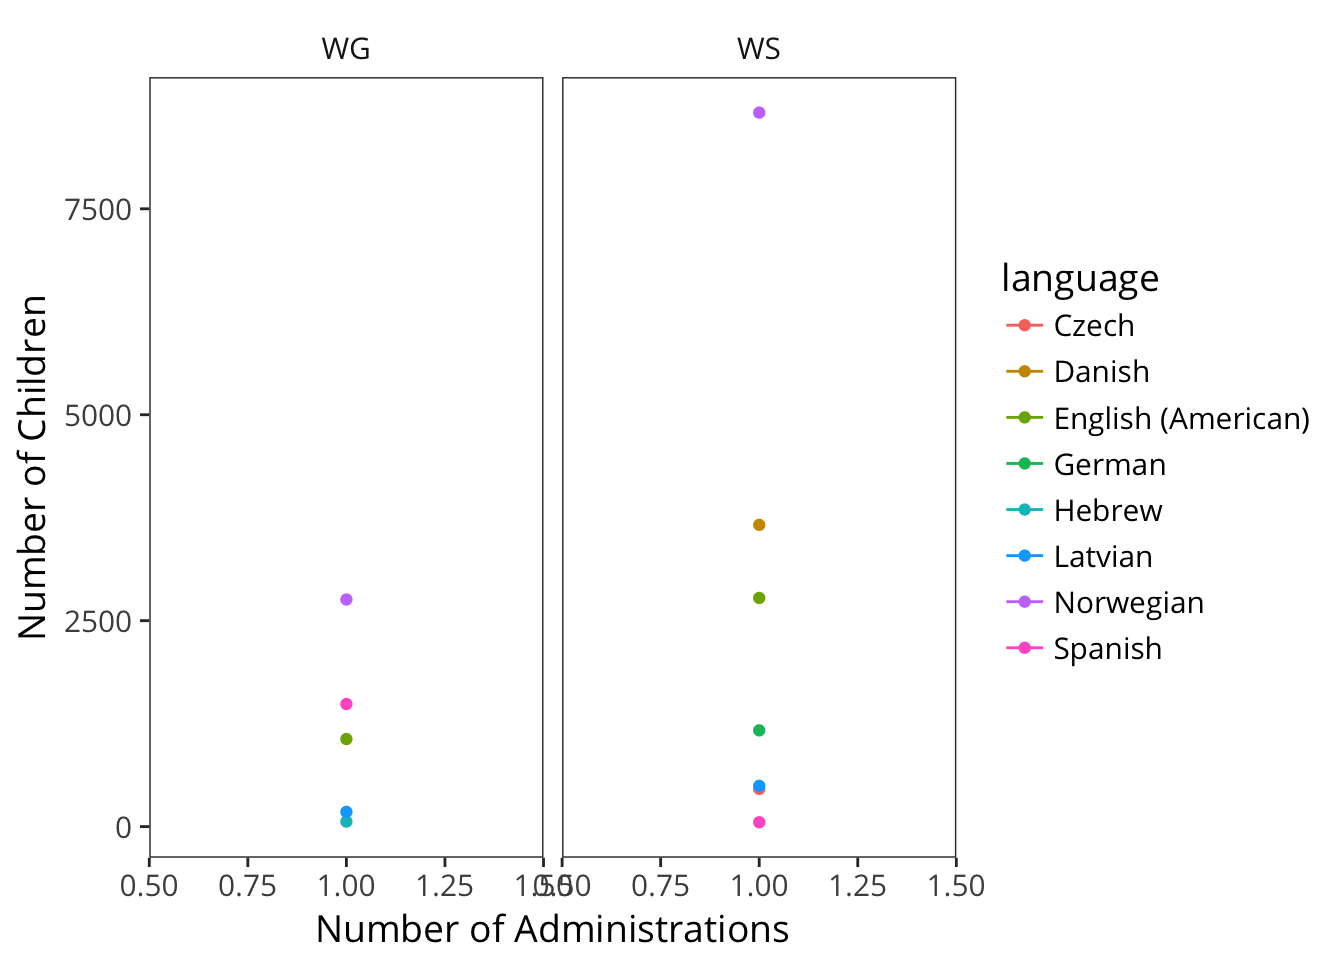
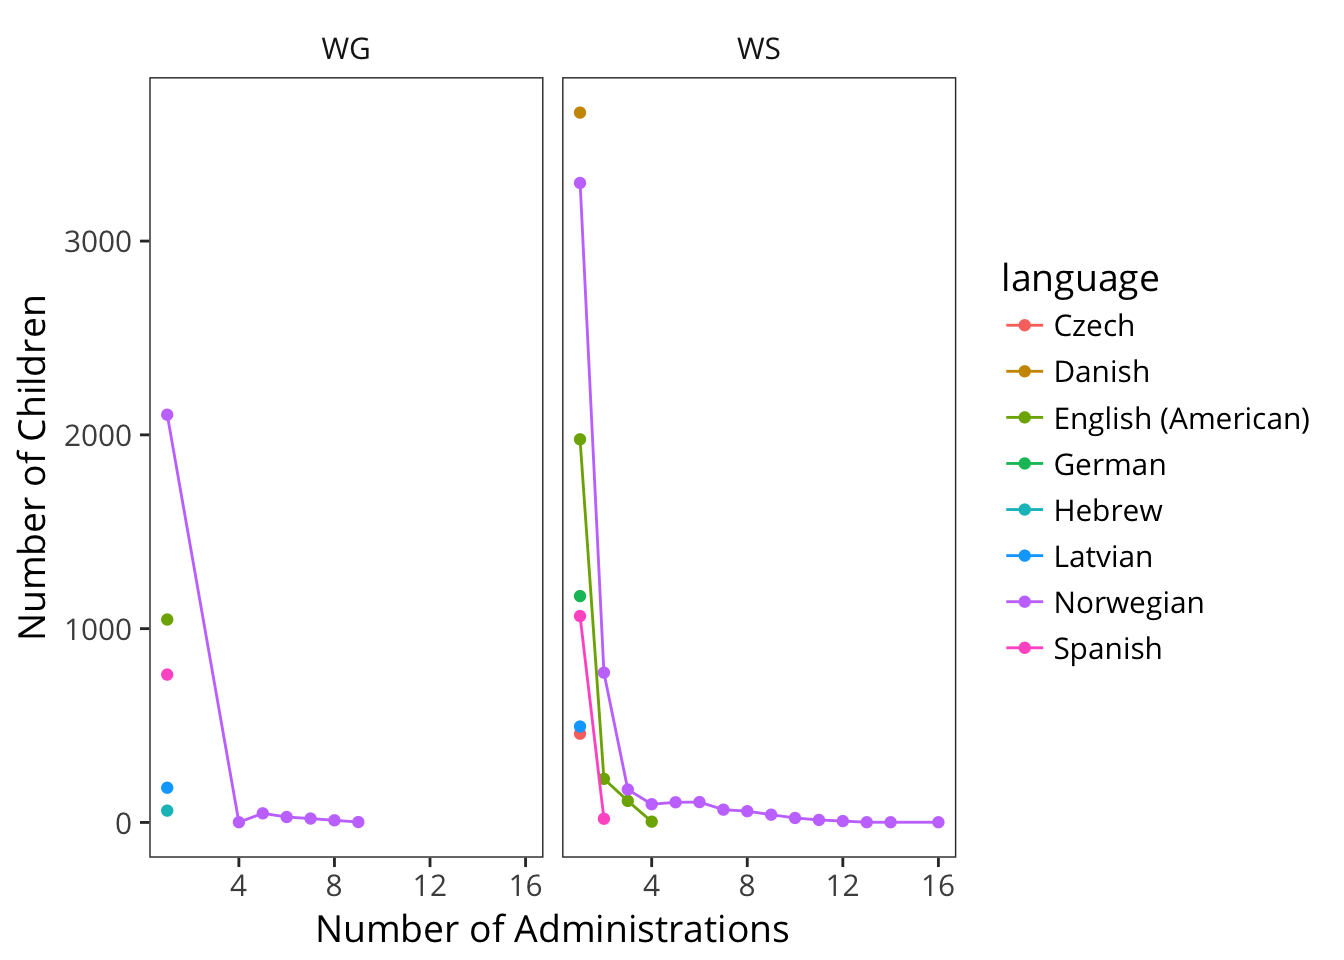
update longitudinal figure

diff --git a/docs/methods.html b/docs/methods.html
@@ -82,6 +82,7 @@
 <li class="chapter" data-level="2.2.3" data-path="methods.html"><a href="methods.html#administration-details"><i class="fa fa-check"></i><b>2.2.3</b> Administration details</a></li>
 <li class="chapter" data-level="2.2.4" data-path="methods.html"><a href="methods.html#demographics"><i class="fa fa-check"></i><b>2.2.4</b> Demographics</a></li>
 <li class="chapter" data-level="2.2.5" data-path="methods.html"><a href="methods.html#longitudinal-vs.cross-sectional-data"><i class="fa fa-check"></i><b>2.2.5</b> Longitudinal vs. cross-sectional data</a></li>
+<li class="chapter" data-level="2.2.6" data-path="methods.html"><a href="methods.html#conclusions"><i class="fa fa-check"></i><b>2.2.6</b> Conclusions</a></li>
 </ul></li>
 </ul></li>
 <li class="chapter" data-level="3" data-path="vocab.html"><a href="vocab.html"><i class="fa fa-check"></i><b>3</b> Vocabulary Development</a></li>
@@ -141,7 +142,7 @@
 <li><strong>Language</strong>: A particular language or language community for which a CDI instrument has been adapted. Note that this definition of language distinguishes e.g. American and British English.</li>
 </ul>
 <p>These entities are related by two primary groups of tables in Wordbank. The <em>common</em> tables store data that is shared between CDI instruments, including information about <em>administrations</em> (individual instances of a form being filled out for a child), and <em>items</em> (words and other questions on a form). Then the <em>instrument</em> tables store the item-by-item response data for particular CDI instruments. We currently include all items on CDI instruments, including questions about communication, gesture, morphology, and grammar (though in many of the datasets that we archive these non-vocabulary questions have not been digitized so data on these are sparse at present; see e.g., Chapters <a href="#gesture"><strong>??</strong></a> and <a href="grammar.html#grammar">11</a>).</p>
-<p>Wordbank is designed so that it can accommodate data from a wide variety of instruments, both within and across languages. Indeed, at the time of writing, the site includes data from more than 71933 administrations of the CDI across 25 different languages and 48 different instruments.</p>
+<p>Wordbank is designed so that it can accommodate data from a wide variety of instruments, both within and across languages. Indeed, at the time of writing, the site includes data from more than 71189 administrations of the CDI across 25 different languages and 48 different instruments.</p>
 </div>
 <div id="implementation" class="section level3">
 <h3><span class="header-section-number">2.1.2</span> Implementation</h3>
@@ -211,7 +212,10 @@
 <div id="longitudinal-vs.cross-sectional-data" class="section level3">
 <h3><span class="header-section-number">2.2.5</span> Longitudinal vs. cross-sectional data</h3>
 <p>The strongest developmental inferences can be made by the examination of longitudinal data, in which children’s individual development is measured multiple times using the same instrument. Unfortunately, relatively little of our CDI data comes from this type of repeated administration and so we must typically settle for using the large amount of available cross-sectional data to average out individual variability.</p>
-<p><img src="wordbank-book_files/figure-html/unnamed-chunk-5-1.png" width="672" style="display: block; margin: auto;" /> ### Conclusions</p>
+<p><img src="wordbank-book_files/figure-html/unnamed-chunk-5-1.png" width="672" style="display: block; margin: auto;" /></p>
+</div>
+<div id="conclusions" class="section level3">
+<h3><span class="header-section-number">2.2.6</span> Conclusions</h3>
 <p>The strength of the Wordbank framework is that it allow access to CDI data in a consistent format, such that analyses can be applied uniformly. Yet we must not allow this ease to blind us to the difficulties of comparing across measurements that are gathered using different forms, under different administration conditions, and from convenience samples in different countries and cultures using different sampling schemes. Each of these differences has the potential to complicate cross-linguistic comparisons. We will return to each again and again throughout the book.</p>
 
 </div>
